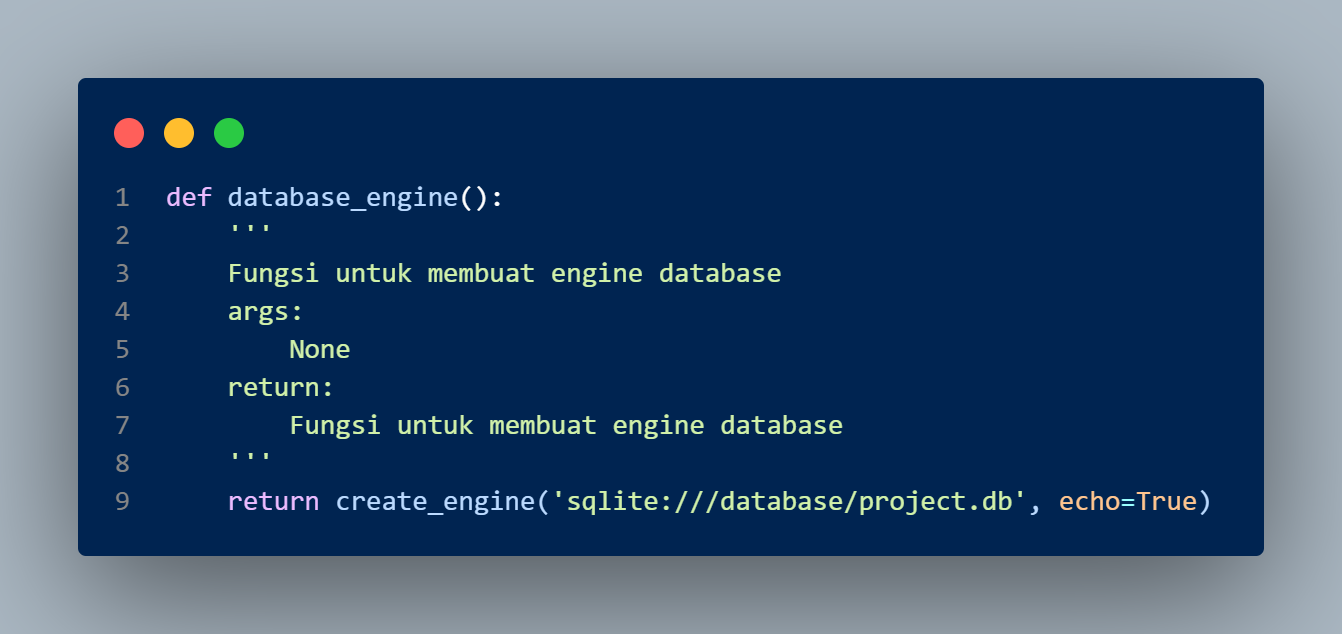
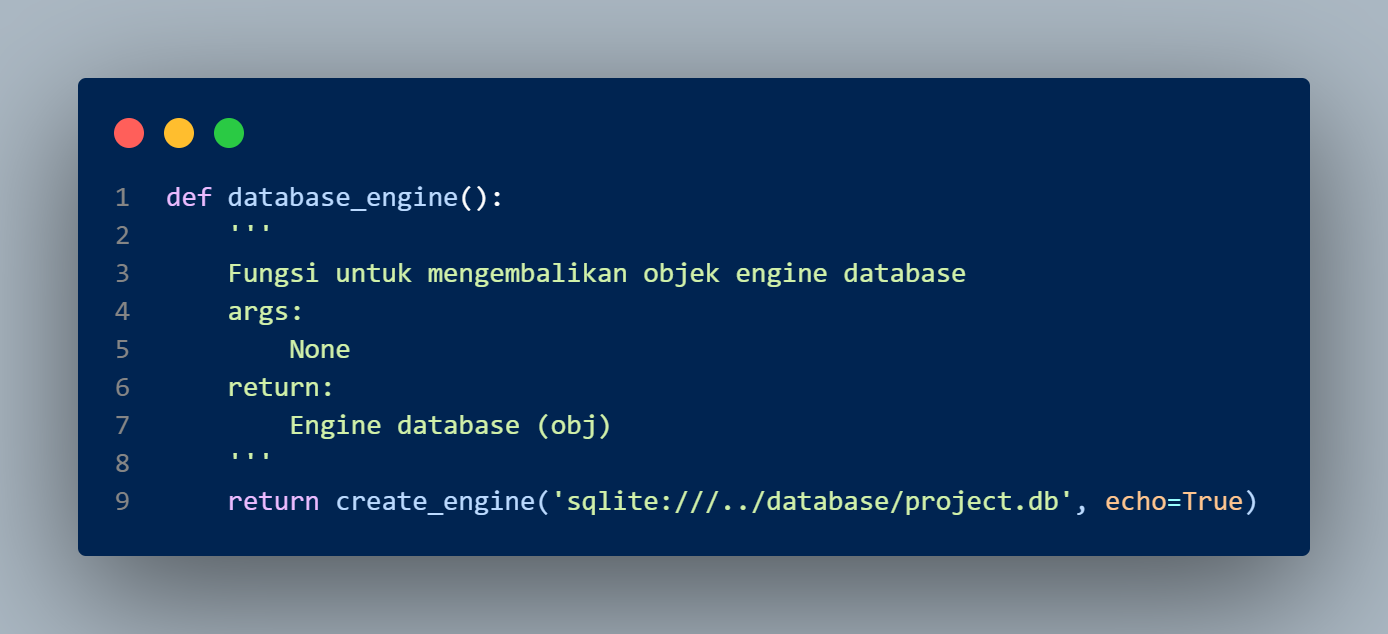
Updating database engine

diff --git a/modules/database_engine.py b/modules/database_engine.py
@@ -3,10 +3,10 @@ from sqlalchemy import create_engine
 # Membuat engine yang terhubung dengan database
 def database_engine():
     '''
-    Fungsi untuk membuat engine database
+    Fungsi untuk mengembalikan objek engine database
     args:
         None
     return:
-        Fungsi untuk membuat engine database
+        Engine database (obj)
     '''
     return create_engine('sqlite:///../database/project.db', echo=True)
